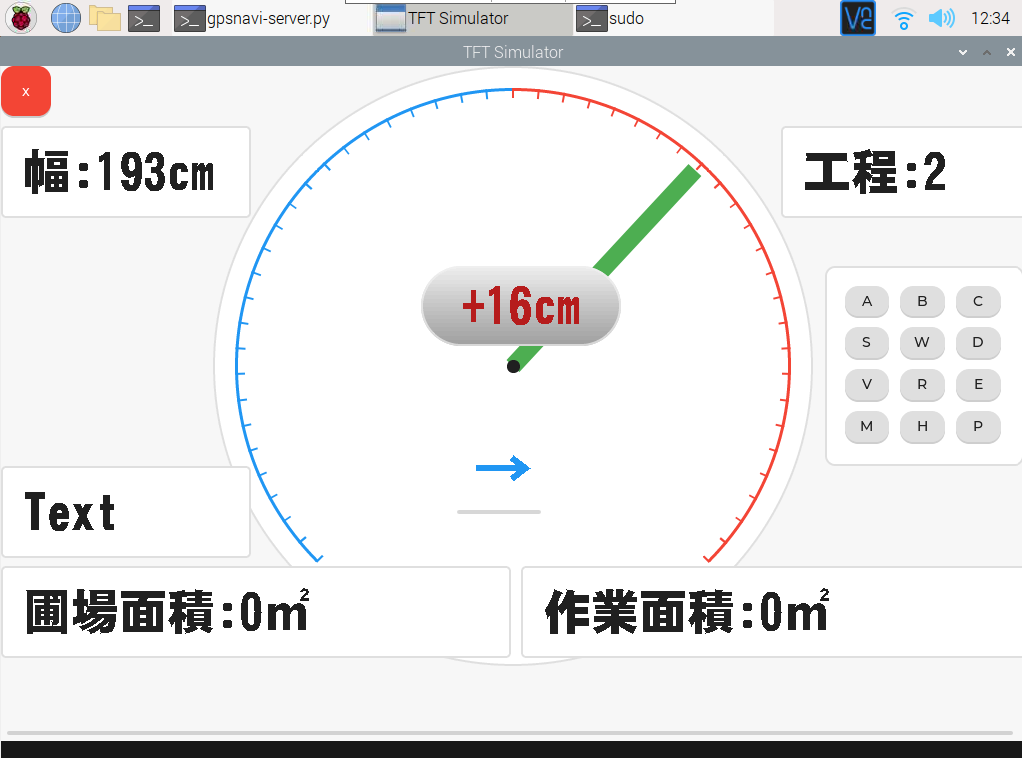
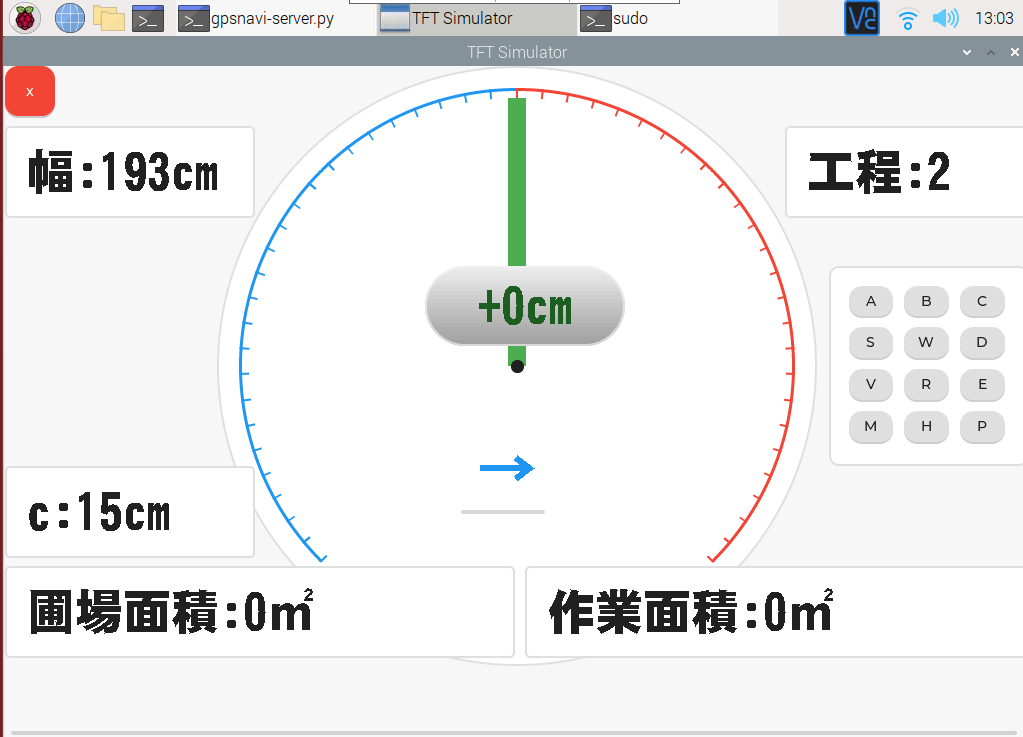
QandA

diff --git a/README.md b/README.md
@@ -15,11 +15,11 @@ https://www.ardusimple.com/product/simplertk2b-basic-starter-kit-ip65/
 
 ・電源5V2.4A以上
 
-・3x4キーパッド 
+・3x4キーパッド Navi 操作用
 
 https://www.aitendo.com/product/3644
 
-・1x3スイッチ 
+・1x3スイッチ Shutdown Button
  
 https://www.aitendo.com/product/11784
 
@@ -37,7 +37,7 @@ http://rtk2go.com:2104/
  
 https://notify-bot.line.me/ja/
 
-・(オプション 降雨予測用）Yahoo API ID 
+・(オプション 降雨予測用）Yahoo API ID
 
 https://developer.yahoo.co.jp/start/
 
@@ -47,7 +47,7 @@ https://www.switch-science.com/catalog/5208/
 
 https://qiita.com/m_take/items/e80735e860ce235c1a74
 
-# Raspberry Pi
+# Raspberry Pi 設定
 
 ## Raspberry Pi OS(Legasy) buster
 
@@ -56,7 +56,7 @@ https://forums.raspberrypi.com/viewtopic.php?t=323294&start=25
 
 ## raspi-config
 
-### Wifi /Locate 
+### Wifi /Locate
 
     jp utf-8
 
@@ -78,9 +78,9 @@ chmod +x *.sh
 chmod +x *.py
 ./install.sh
 nano config.ini.template
-変更して config.ini で保存
+# 変更して config.ini で保存
 nano str2str-in.sh.template
-変更して str2str-in.sh で保存
+# 変更して str2str-in.sh で保存
 sudo reboot
 ```
 
@@ -128,13 +128,64 @@ https://www.u-blox.com/en/ubx-viewer/view/UBX_F9_100_HPG130.aa1ce2137147f95bbde5
     前輪軸上中心がベスト
 ## タブレット取り付け
     VNC Viewer install
+https://www.realvnc.com/en/connect/download/viewer/
+
     目線やや上
-## 作業機上昇リミットスイッチ
+## ワークスイッチ
     作業面積計測用
     BoardPin No. (25 ,19)    =GPIO No.(GND ,10)
 # 圃場SHP
     圃場SHP読み込み 
-    座標参照系　EPSG:4326 WGS84
+    座標参照系 EPSG:4326 WGS84
     文字コード UTF-8
     [0]連番[1]面積[2]ID[3]圃場名[5]A-lat[6]A-lon[7]B-lat[8]B-lon
 
+
+# Q & A
+
+### これはなんですか？
+・**A点**「A」(1) ボタン　**B点**「B」(2)ボタン　を登録するとその**基準線**に作業幅分の平行線が引かれます。そのガイダンス線に対してアンテナの位置がどれだけ離れているかを表示します。
+### メーターは何？
+
+・***右（赤色）に針があるとき***ガイド線より左に寄っているので **ハンドルを右に回します**
+
+・***左（青色）に針があるとき***ガイド線より右に寄っているので **ハンドルを左に回します**
+
+・1目盛りが1cmで左右50cm以内で針が動きます。
+
+### 中央の数字は何？
+・ガイド線から基準線方向に近いときはマイナス、離れているときはプラスの距離を表示しています
+
+### 数字の下の矢印は何？
+
+・基準線の方向を示しています。もし逆をむいているときは「D」(6) ボタンを押して反転させます
+
+・機体の方位センサーは使っていないので手動で合わせます。通常のUターン作業では初めに合わせるだけです
+
+### c はなに？
+・基準線を平行にオフセットさせた数字です。「C」(3) ボタンを押すとその位置がガイダンス0cmにオフセットされます
+### 「P」(SHP)ボタン、「E」ボタン、圃場面積とは？
+・圃場内に入ってから「P（SHP）」(#) ボタンを押すと　圃場SHPファイルに登録してある場合圃場面積が表示されます
+・圃場にAB点が登録してある場合基準線が変更されます。
+・手動の基準線に替えたいたい場合は「E」(9)ボタンを押すと切り替わります（Exchange）
+
+### 作業面積とは？
+・作業機下降を感知するスイッチを付けた場合、作業中の面積が加算されます。「M」(*) ボタンを押すとリセットされます
+
+### 左上のXマークは？
+・シャットダウンスイッチです
+
+### 「S」 「W」 「H」 ボタンはなに？
+・「W」(5)を押すと作業幅が二倍にSを押すともとに戻ります
+
+・隣接耕のときは「S」(4) 一本飛ばしの時は「W」を使います。
+端までいったら「H」(0)を押すと2倍のHalf　つまり作業幅分オフセットされ残りの工程を作業します。
+
+
+### 「R」ボタンは何？
+・Yahoo API IDを登録してある時、その場所の1時間後までの降雨予想を表示します
+
+
+
+### 画面上のボタンを押すとたまに動きが変です
+・改良中です
